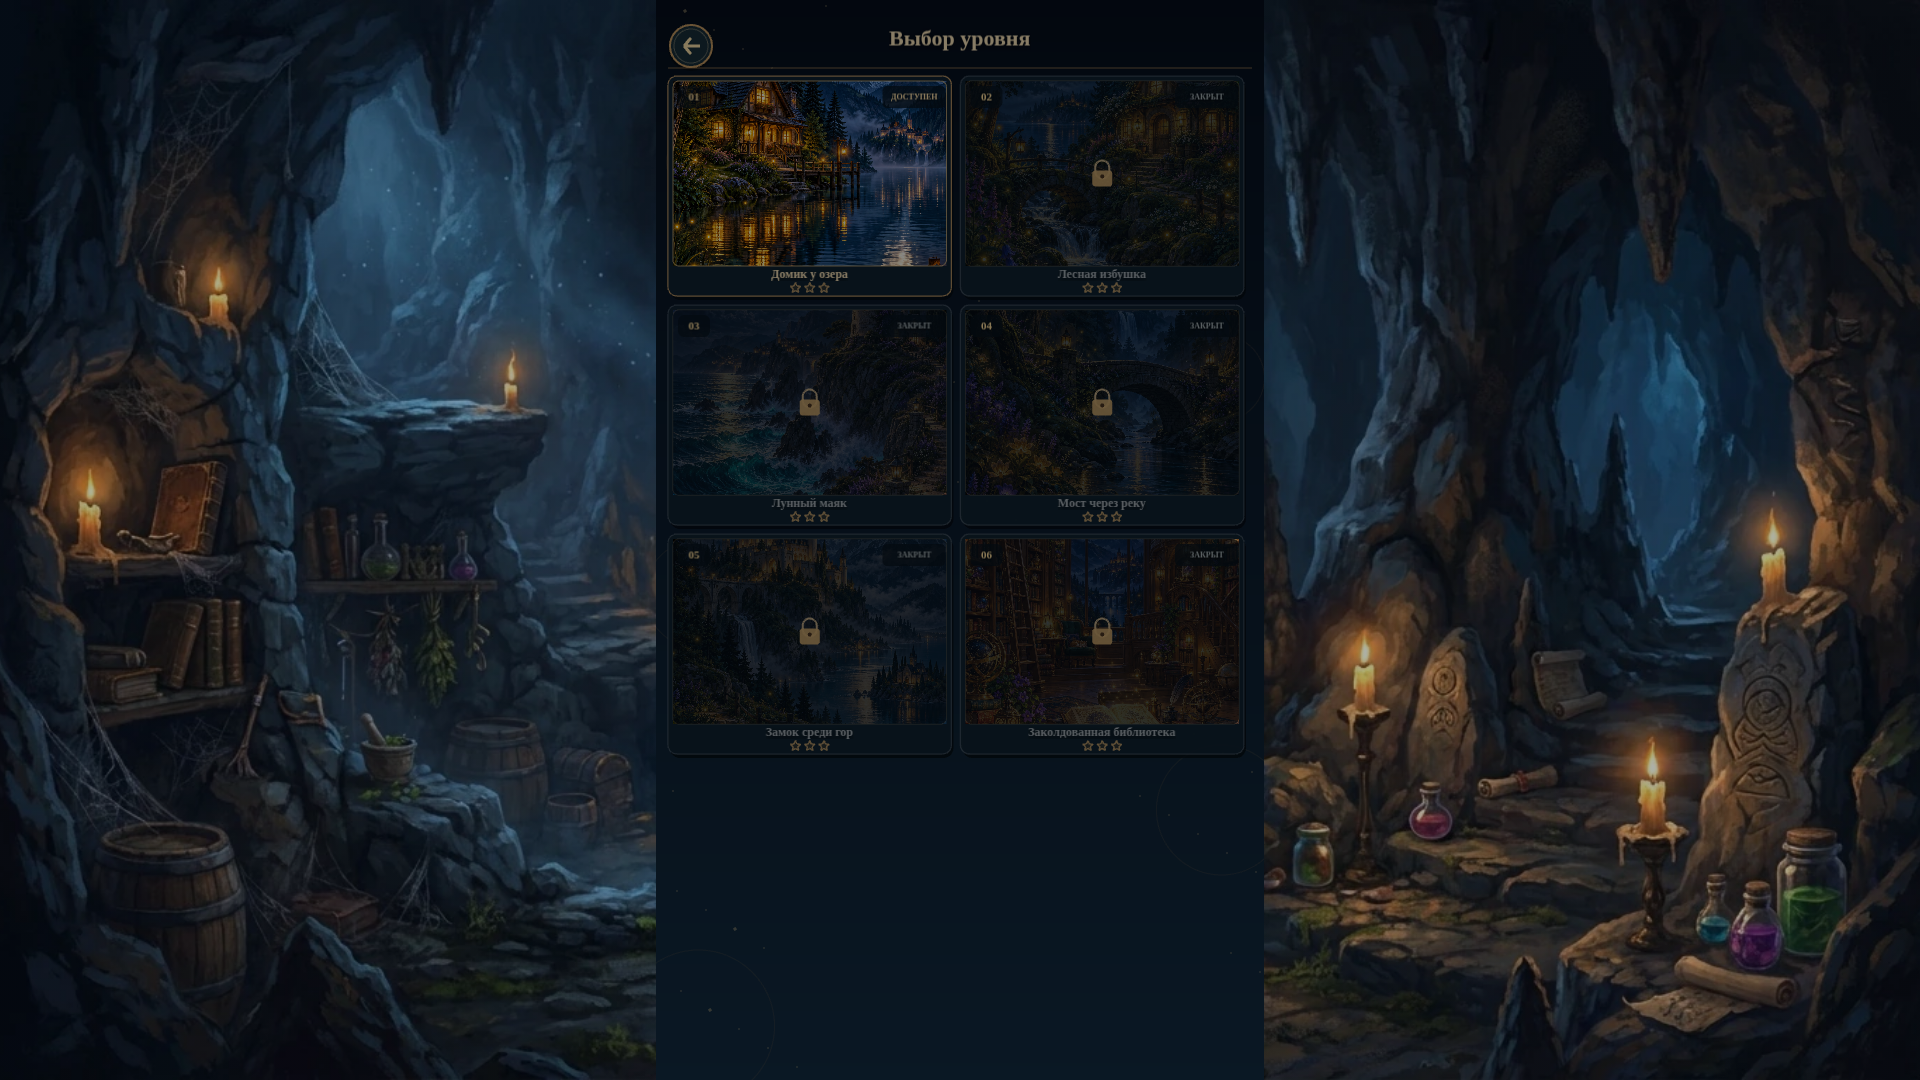
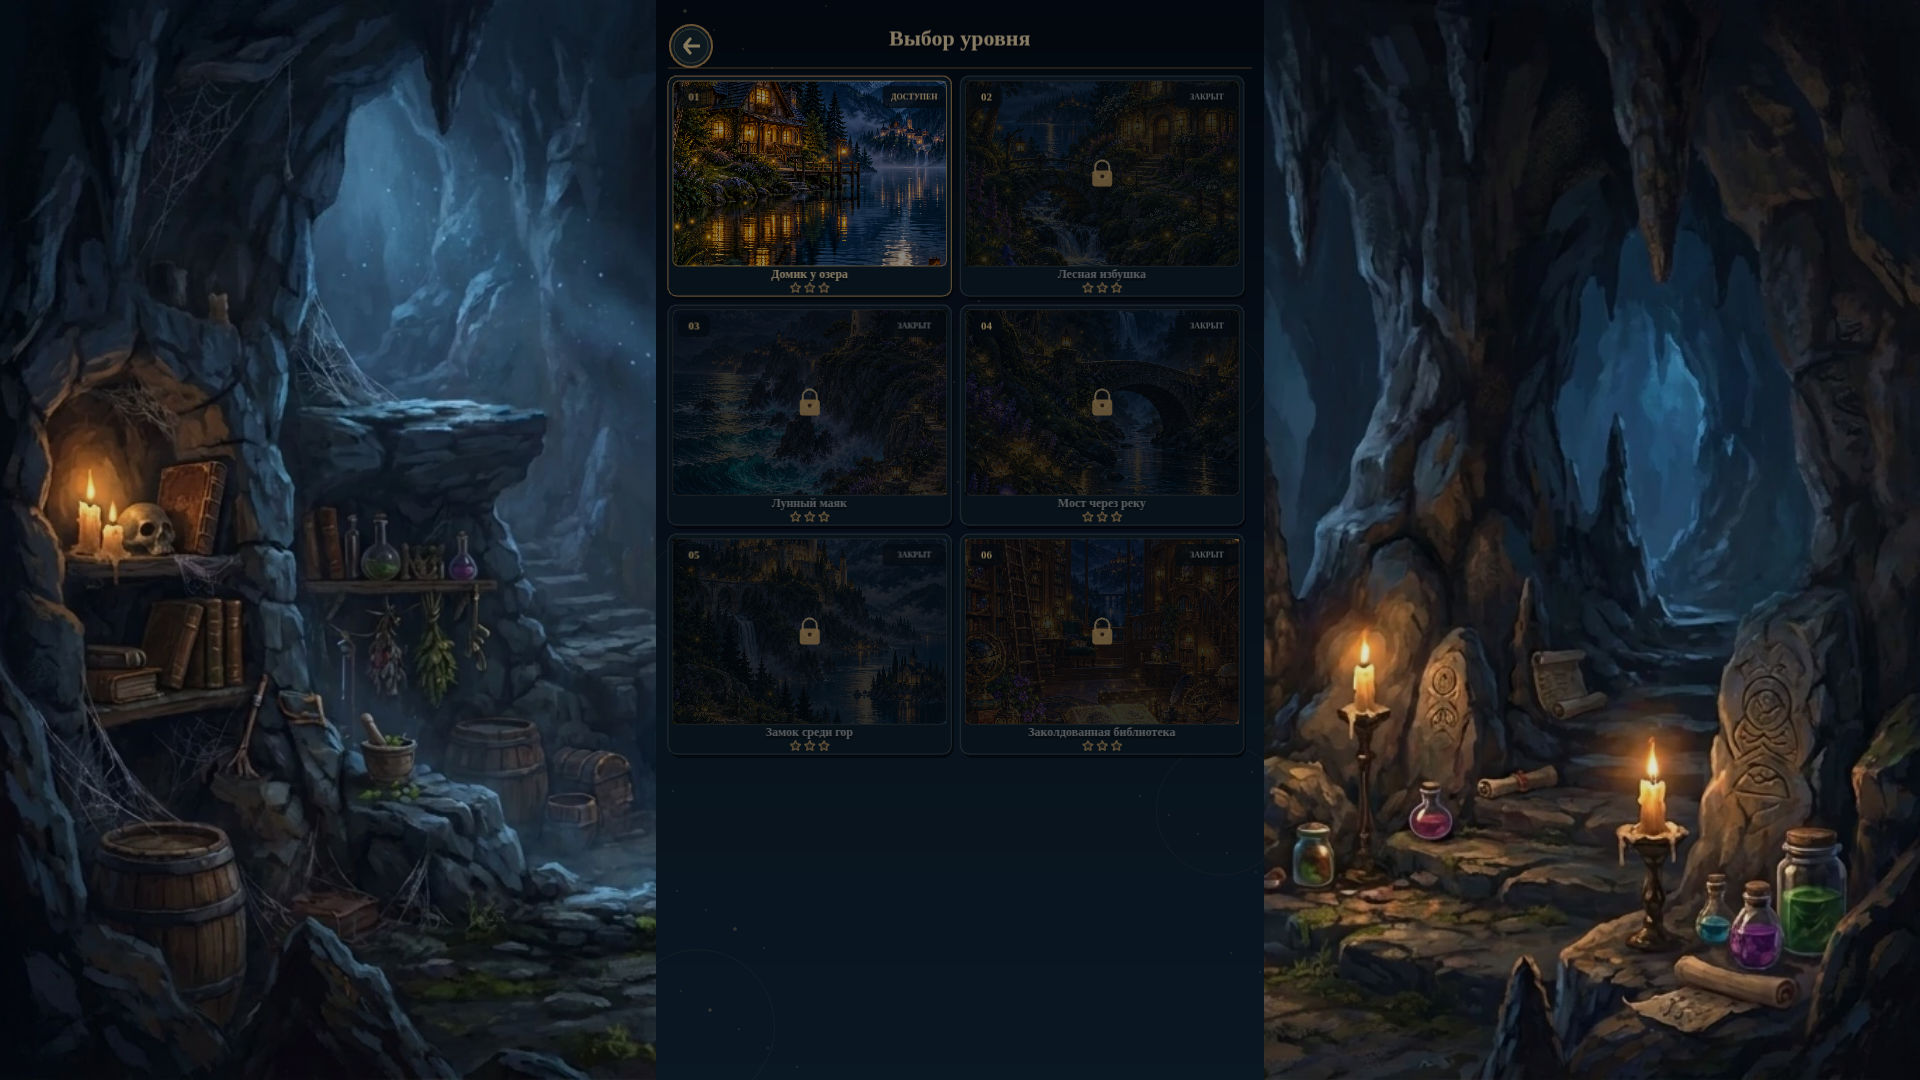
Replace desktop cave with approved final artwork

diff --git a/src/style.css b/src/style.css
@@ -7,7 +7,7 @@ canvas { display: block; touch-action: none; }
 
 @media (min-width: 900px) and (min-height: 600px) and (orientation: landscape) {
   body {
-    background-image: linear-gradient(rgba(3, 10, 20, .32), rgba(3, 10, 20, .32)), url('./assets/desktop-cave.webp');
+    background-image: linear-gradient(rgba(3, 10, 20, .12), rgba(3, 10, 20, .12)), url('./assets/desktop-cave.webp');
     background-size: cover, cover;
     background-position: center, center;
     background-repeat: no-repeat, no-repeat;
